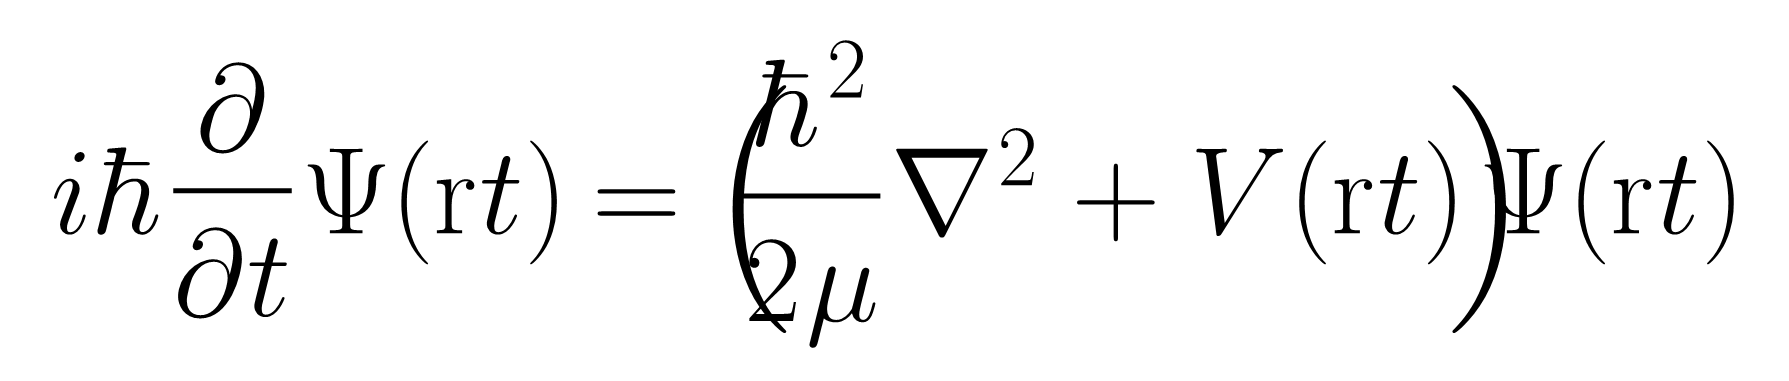
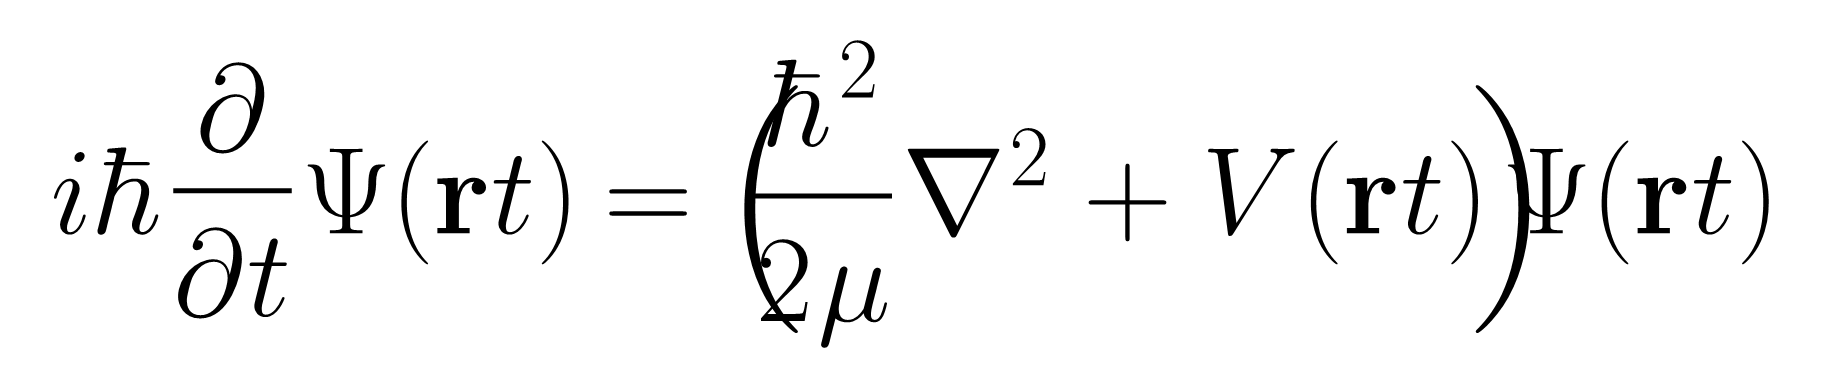
Added extra operators

diff --git a/MathematicsTypesetting.LaTeX/LaTeXParser.cs b/MathematicsTypesetting.LaTeX/LaTeXParser.cs
@@ -441,9 +441,9 @@ namespace MathematicsTypesetting.LaTeX
 
         public void GetGreekLetter(string latex, IList<Element> container, Marker marker)
         {
-            var greekLetterCommands = new string[] { "alpha", "beta", "gamma", "delta", "epsilon", "zeta", "eta", "theta", "iota", "kappa", "lambda", "mu", "nu", "xi", "omicron", "pi", "rho", "sigma", "tau", "upsilon", "phi", "chi", "psi", "omega", "Alpha", "Beta", "Gamma", "Delta", "Epsilon", "Zeta", "Eta", "Theta", "Iota", "Kappa", "Lambda", "Mu", "Nu", "Xi", "Omicron", "Pi", "Rho", "Sigma", "Tau", "Upsilon", "Phi", "Chi", "Psi", "Omega", "prime", "hbar", "partial", "nabla" };
+            var greekLetterCommands = new string[] { "alpha", "beta", "gamma", "delta", "epsilon", "zeta", "eta", "theta", "iota", "kappa", "lambda", "mu", "nu", "xi", "omicron", "pi", "rho", "sigma", "tau", "upsilon", "phi", "chi", "psi", "omega", "Alpha", "Beta", "Gamma", "Delta", "Epsilon", "Zeta", "Eta", "Theta", "Iota", "Kappa", "Lambda", "Mu", "Nu", "Xi", "Omicron", "Pi", "Rho", "Sigma", "Tau", "Upsilon", "Phi", "Chi", "Psi", "Omega", "prime", "hbar", "partial", "nabla", "times", "cdot", "leq", "geq", "propto" };
 
-            var greekLetters = new string[] { "α", "β", "γ", "δ", "ε", "ζ", "η", "θ", "ι", "κ", "λ", "μ", "ν", "ξ", "ο", "π", "ρ", "σ", "τ", "υ", "φ", "χ", "ψ", "ω", "Α", "Β", "Γ", "Δ", "Ε", "Ζ", "Η", "Θ", "Ι", "Κ", "Λ", "Μ", "Ν", "Ξ", "Ο", "Π", "Ρ", "Σ", "Τ", "Υ", "Φ", "Χ", "Ψ", "Ω", "′", "ħ", "∂", "∇" };
+            var greekLetters = new string[] { "α", "β", "γ", "δ", "ε", "ζ", "η", "θ", "ι", "κ", "λ", "μ", "ν", "ξ", "ο", "π", "ρ", "σ", "τ", "υ", "φ", "χ", "ψ", "ω", "Α", "Β", "Γ", "Δ", "Ε", "Ζ", "Η", "Θ", "Ι", "Κ", "Λ", "Μ", "Ν", "Ξ", "Ο", "Π", "Ρ", "Σ", "Τ", "Υ", "Φ", "Χ", "Ψ", "Ω", "′", "ħ", "∂", "∇", "×", "·", "≤", "≥", "∝" };
 
             var uppercaseGreekLetters = new string[] { "Α", "Β", "Γ", "Δ", "Ε", "Ζ", "Η", "Θ", "Ι", "Κ", "Λ", "Μ", "Ν", "Ξ", "Ο", "Π", "Ρ", "Σ", "Τ", "Υ", "Φ", "Χ", "Ψ", "Ω", "∇" };
 

diff --git a/MathematicsTypesetting.Fonts/FontLoader.cs b/MathematicsTypesetting.Fonts/FontLoader.cs
@@ -68,7 +68,7 @@ namespace MathematicsTypesetting.Fonts
 
             foreach (var c in text)
             {
-                var g = GetGlyph("normal", fontEmphasis, c.ToString());
+                var g = GetGlyph(fontWeight, fontEmphasis, c.ToString());
 
                 if (g != null)
                 {
@@ -90,7 +90,7 @@ namespace MathematicsTypesetting.Fonts
             }
         }
 
-        public SizeF MeasureString(string text, float fontSize, string fontEmphasis, string fontWeight)
+        public SizeF MeasureString(string text, float fontSize, string fontEmphasis = "none", string fontWeight = "normal")
         {
             var w = 0.0f;
             var letterSpacing = 0.01f;
@@ -98,7 +98,7 @@ namespace MathematicsTypesetting.Fonts
 
             foreach (var c in text)
             {
-                var g = GetGlyph("normal", fontEmphasis, c.ToString());
+                var g = GetGlyph(fontWeight, fontEmphasis, c.ToString());
 
                 if (g != null)
                 {

diff --git a/MathematicsTypesetting/PNGExporter.cs b/MathematicsTypesetting/PNGExporter.cs
@@ -179,14 +179,10 @@ namespace MathematicsTypesetting
 
             //  graphics.DrawString(text, font, brush, point);
 
-            var emphasis = "none";
-
-            if (textElement.FontStyle.FontEmphasis == FontEmphasis.Italic)
-            {
-                emphasis = "italic";
-            }
-
-            _fontLoader.DrawString(graphics, text, emSize, emphasis, "", brush, point);
+            var fontEmphasis = (textElement.FontStyle.FontEmphasis == FontEmphasis.Italic) ? "italic" : "none";
+            var fontWeight = (textElement.FontStyle.FontWeight == FontWeight.Bold) ? "bold" : "normal";
+            
+            _fontLoader.DrawString(graphics, text, emSize, fontEmphasis, fontWeight, brush, point);
 
             if (textElement.DrawConstructionLines == true)
             {

diff --git a/MathematicsTypesetting/HyperfontTextMeasurer.cs b/MathematicsTypesetting/HyperfontTextMeasurer.cs
@@ -21,8 +21,9 @@ namespace MathematicsTypesetting
             var emSize = fontStyle.FontHeight.ConvertToUnits(LengthUnits.Points).Quantity;
 
             var fontEmphasis = (fontStyle.FontEmphasis == FontEmphasis.Italic) ? "italic" : "none";
+            var fontWeight = (fontStyle.FontWeight == FontWeight.Bold) ? "bold" : "normal";
 
-            var sizeF = _fontLoader.MeasureString(text, (float)emSize, fontEmphasis, "normal");
+            var sizeF = _fontLoader.MeasureString(text, (float)emSize, fontEmphasis, fontWeight);
             var size = new Size();
 
             size.Width = new Length(sizeF.Width, LengthUnits.Arbitrary);
